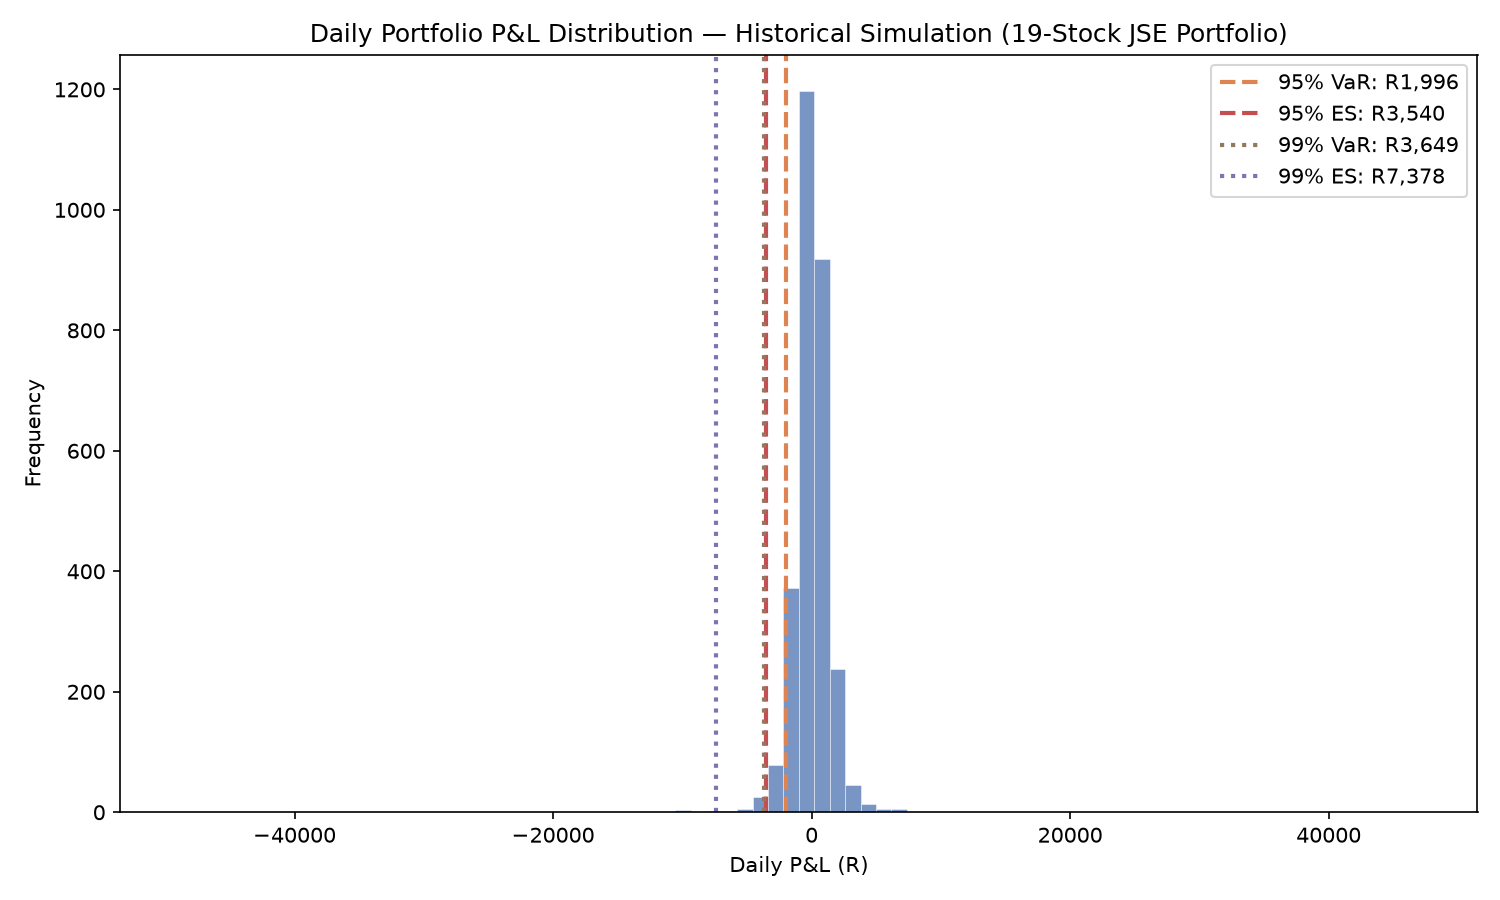
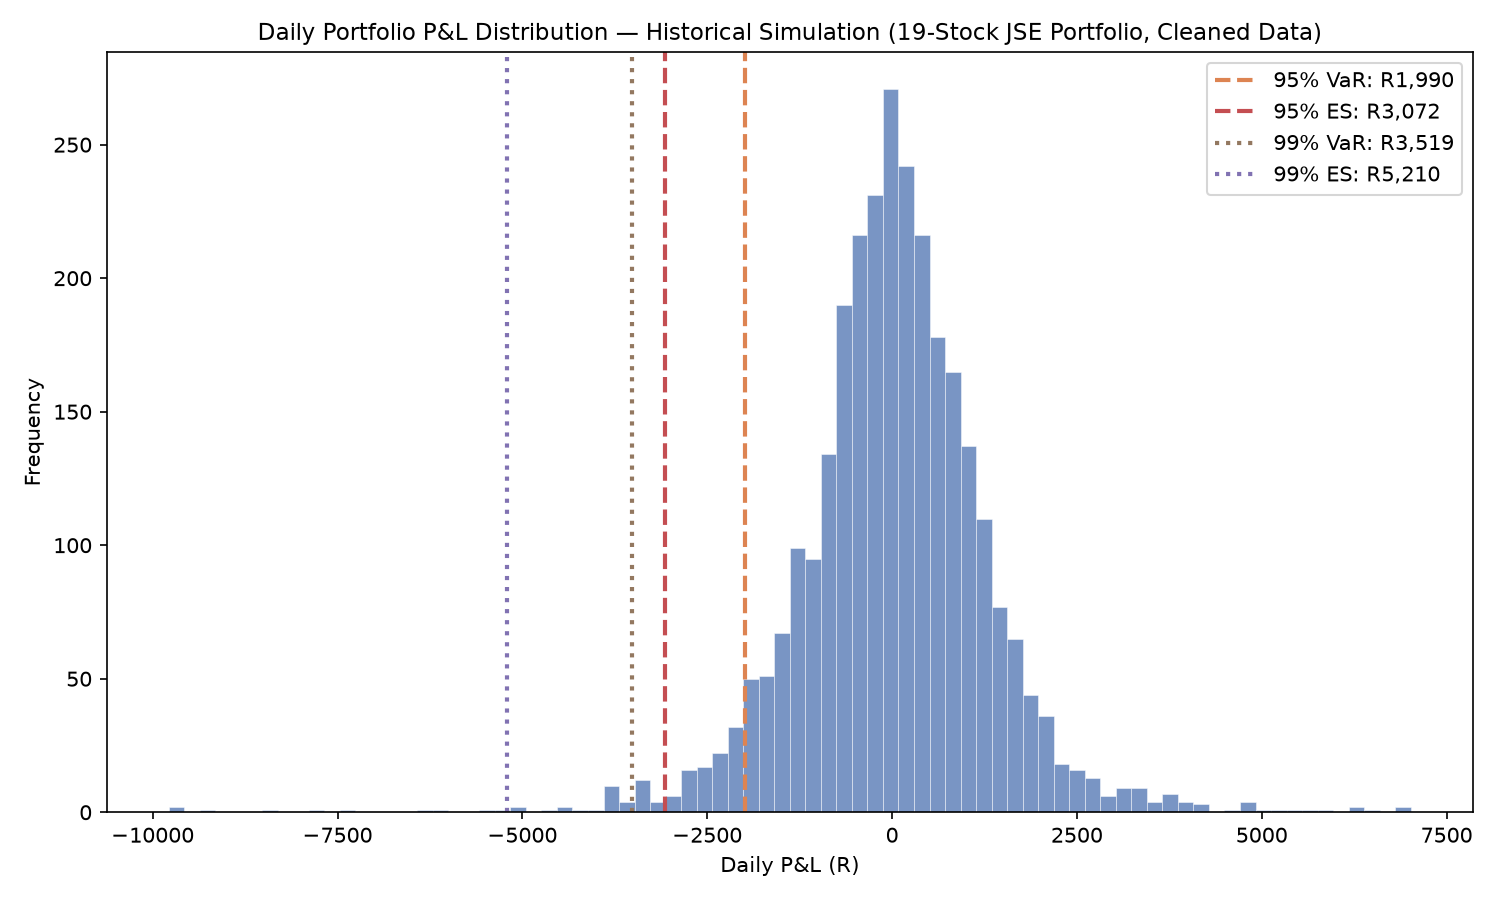
Regenerate chart using cleaned data, refactor to use centralized pipeline

diff --git a/src/visualize.py b/src/visualize.py
@@ -48,4 +48,13 @@ def plot_return_distribution(returns, portfolio_value=PORTFOLIO_VALUE, save=True
     fig.tight_layout()
 
     if save:
-        out_path = OUTPUT_DIR
+        out_path = OUTPUT_DIR / "return_distribution.png"
+        fig.savefig(out_path, dpi=150)
+        print(f"Saved chart to {out_path}")
+
+    return fig
+
+
+if __name__ == "__main__":
+    prices, log_returns, portfolio_returns = load_portfolio_returns()
+    plot_return_distribution(portfolio_returns)
